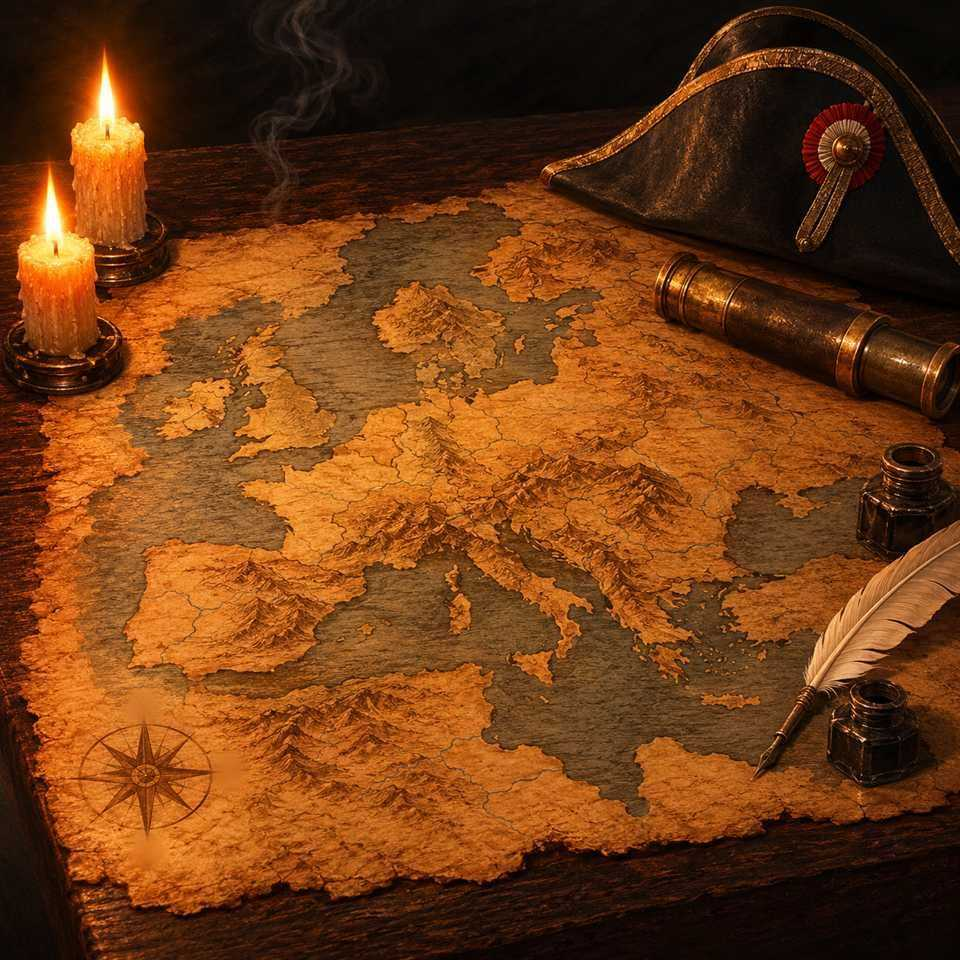
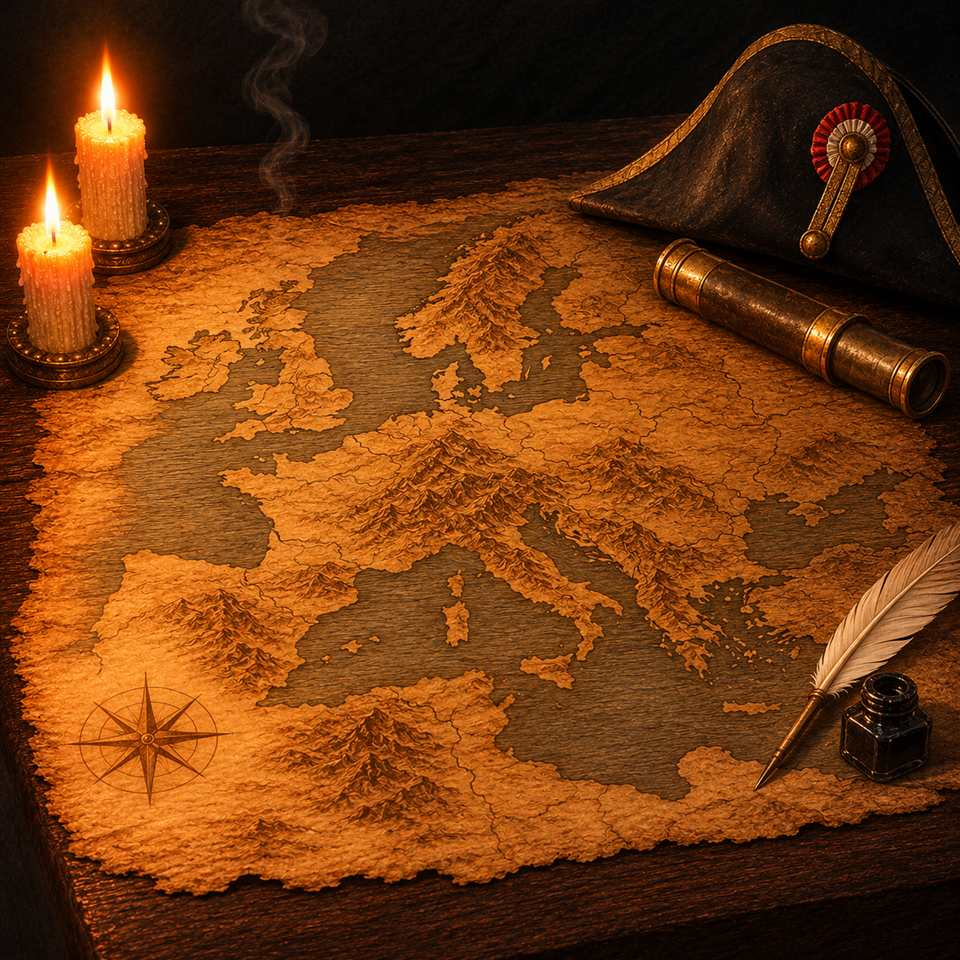
Napoleon's picture is made again with Scandinavia right

diff --git a/LICENSES.md b/LICENSES.md
@@ -8,7 +8,7 @@ Alt i spillet er lavet til spillet, undtagen:
 | `assets/paper.jpg` | Papirtekstur (Paper 003, farvebilledet) | [ambientCG](https://ambientcg.com/view?id=Paper003) | [CC0](https://creativecommons.org/publicdomain/zero/1.0/) |
 | `assets/music/theme.mp3` | Temamusikken "Rulers of the Map – Theme" | Lavet med AI hos [Abracadabrax](https://abracadabrax.app), model "Abracadabrax Instrumental" (Stable Audio), 1/11-2026 | Vores til kommerciel brug: modellen er mærket "cleared for commercial use", og [vilkårene](https://abracadabrax.app/terms) giver ejerskab og kommerciel brug (læst 1/11-2026) |
 | `assets/togter/italy.jpg`, `alexander.jpg`, `vikings.jpg` | Billederne bag togternes årstal (Rom, Alexander, Vikingetogtet) | Lavet med AI hos Abracadabrax, model Seedream 4.5 (ByteDance), 1/11-2026, gjort mindre til 960 px, AI'ens opdigtede ord visket ud | Som musikken: ejerskab og kommerciel brug efter Abracadabrax' vilkår og FAQ (læst 1/11-2026) |
-| `assets/togter/liberation.jpg`, `west.jpg`, `england.jpg`, `threekingdoms.jpg`, `genghis.jpg`, `inka.jpg`, `constantinople.jpg`, `songhai.jpg`, `akbar.jpg`, `japan.jpg`, `napoleon.jpg`, `ethiopia.jpg` | Billederne bag de øvrige togters årstal (Befrielsen, Vesten, England, De tre kongeriger, Djengis Khan, Inka, Konstantinopel, Songhai, Akbar, Japan, Napoleon, Etiopien) | Lavet med AI i ChatGPT (OpenAI) med vores billeder som stilforlæg, 2.–6/11-2026, gjort mindre til 960 px, AI'ens opdigtede ord visket ud, hvor der var nogen | Vores: OpenAIs [vilkår for Europa](https://openai.com/policies/eu-terms-of-use/) giver brugeren ejerskab til det, der laves, også kommercielt (læst 2/11-2026) |
+| `assets/togter/liberation.jpg`, `west.jpg`, `england.jpg`, `threekingdoms.jpg`, `genghis.jpg`, `inka.jpg`, `constantinople.jpg`, `songhai.jpg`, `akbar.jpg`, `japan.jpg`, `napoleon.jpg`, `ethiopia.jpg` | Billederne bag de øvrige togters årstal (Befrielsen, Vesten, England, De tre kongeriger, Djengis Khan, Inka, Konstantinopel, Songhai, Akbar, Japan, Napoleon, Etiopien) | Lavet med AI i ChatGPT (OpenAI) med vores billeder som stilforlæg, 2.–8/11-2026 (Napoleon lavet om 8/11 med Skandinavien rettet), gjort mindre til 960 px, AI'ens opdigtede ord visket ud, hvor der var nogen | Vores: OpenAIs [vilkår for Europa](https://openai.com/policies/eu-terms-of-use/) giver brugeren ejerskab til det, der laves, også kommercielt (læst 2/11-2026) |
 
 Kortet, kystlinjerne, kortsymbolerne og lydene er tegnet og lavet i koden.
 
